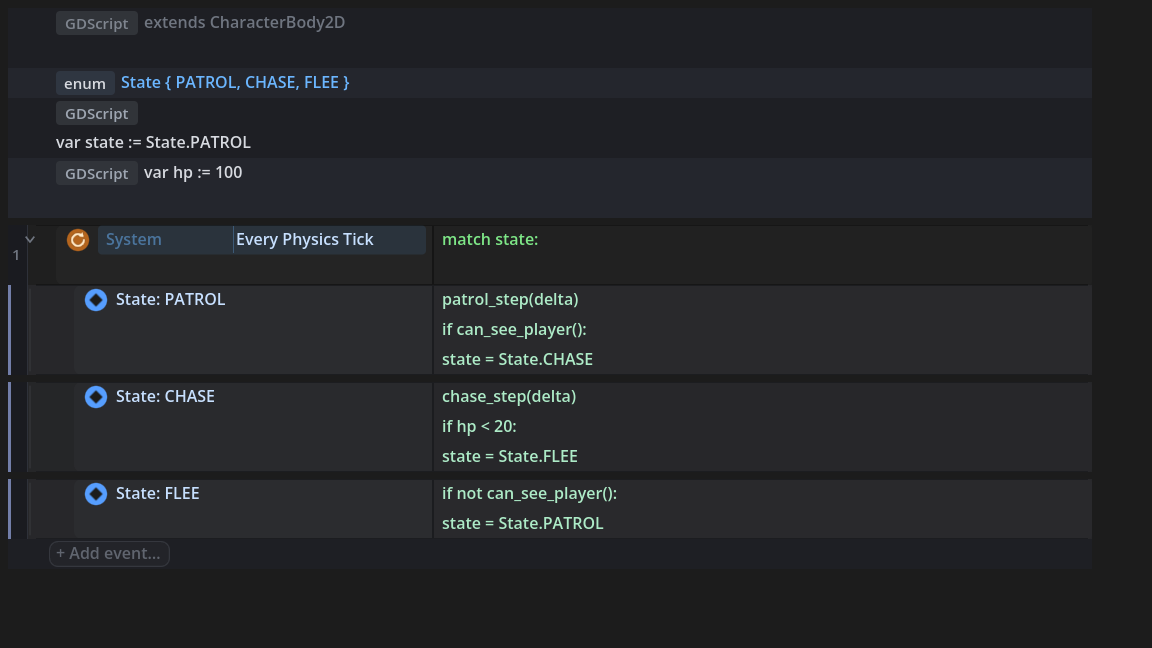
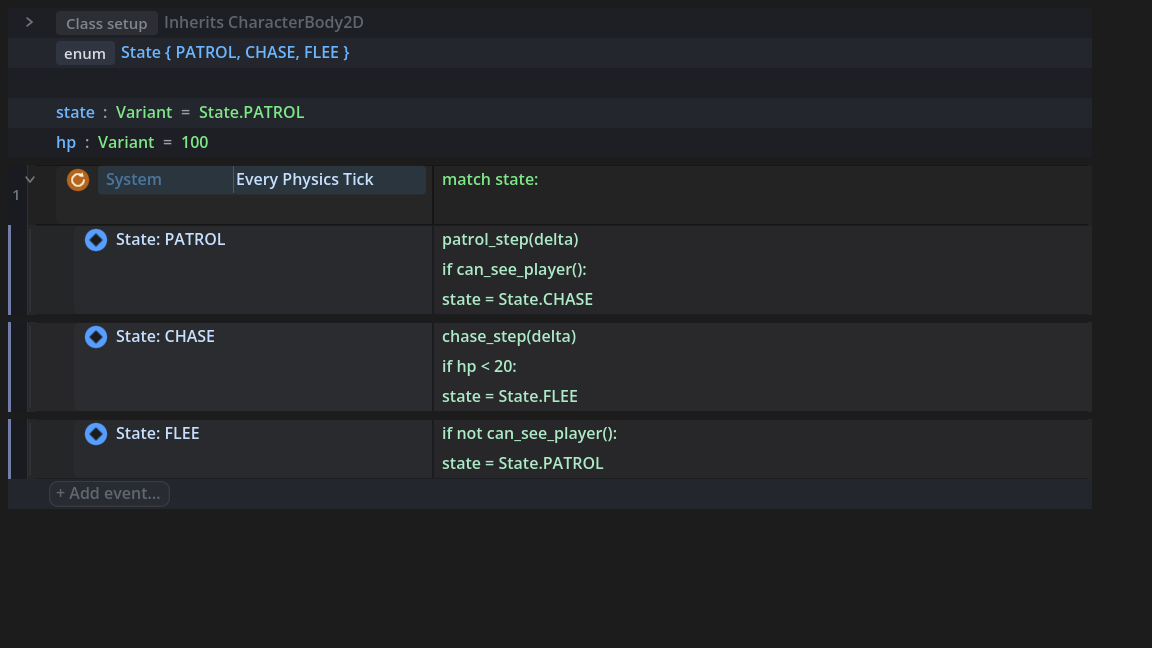
feat(importer): beginner-style GDScript lifts fully structured
Inferred := variables lift with the walrus spelling recorded (collection
heads and preload/load lines stay with their own lifts); untyped lifecycle
headers dispatch to the event lift carrying the source header as meta so
emission reproduces the exact spelling; the Class setup strip reads like
an Includes bar ('Inherits CharacterBody2D') and identity lines fold even
alone; expression defaults display as code, not quoted strings. Two test
pins updated to the new behavior by design; beginner_style_lift_test pins
the whole file: walrus vars + untyped _physics_process + structured match
cases + byte-identical round-trip.

diff --git a/CHANGELOG.md b/CHANGELOG.md
@@ -14,6 +14,23 @@ non-Node host compiles with a warning instead of broken code. The generated trio
 name-addressed: reopening the emitted `.gd` as a sheet lifts it into ordinary rows, and saving
 again emits no second copy - the reopen cycle stays byte-identical.
 
+### Added - beginner-style GDScript gets the same structured open as style-guide code
+
+The zero-blocks number was measured on style-guide sources; beginner files spell things
+differently, and each spelling now lifts with its byte recorded:
+
+- **Inferred `:=` variables** (`var hp := 100`, `const SPEED := 2.5`, `@export var x := ...`)
+  lift to first-class variable rows that re-emit the walrus exactly. Shapes other lifts own
+  stay theirs: collection heads keep the Declare row, preload/load lines keep the preload row.
+- **Untyped lifecycle headers** (`func _physics_process(delta):` - no return arrow) lift to
+  their triggers with the source header carried along, so emission reproduces the exact
+  spelling. The whole enum + match machine in a beginner file now opens fully structured.
+- **The prelude reads like Construct's Includes bar**: the Class setup strip names what the
+  sheet is built on ("Inherits CharacterBody2D", plus the class name when declared), and an
+  identity line folds into it even alone - no more naked `extends` row up top.
+- Expression defaults on variable rows display as code, not quoted strings
+  (`= State.PATROL`, not `= "State.PATROL"`).
+
 ### Added - a hand-written enum + match machine opens in the state-machine shape
 
 Opening a `.gd` whose `_physics_process` holds a `match state:` now lands the full reading:
